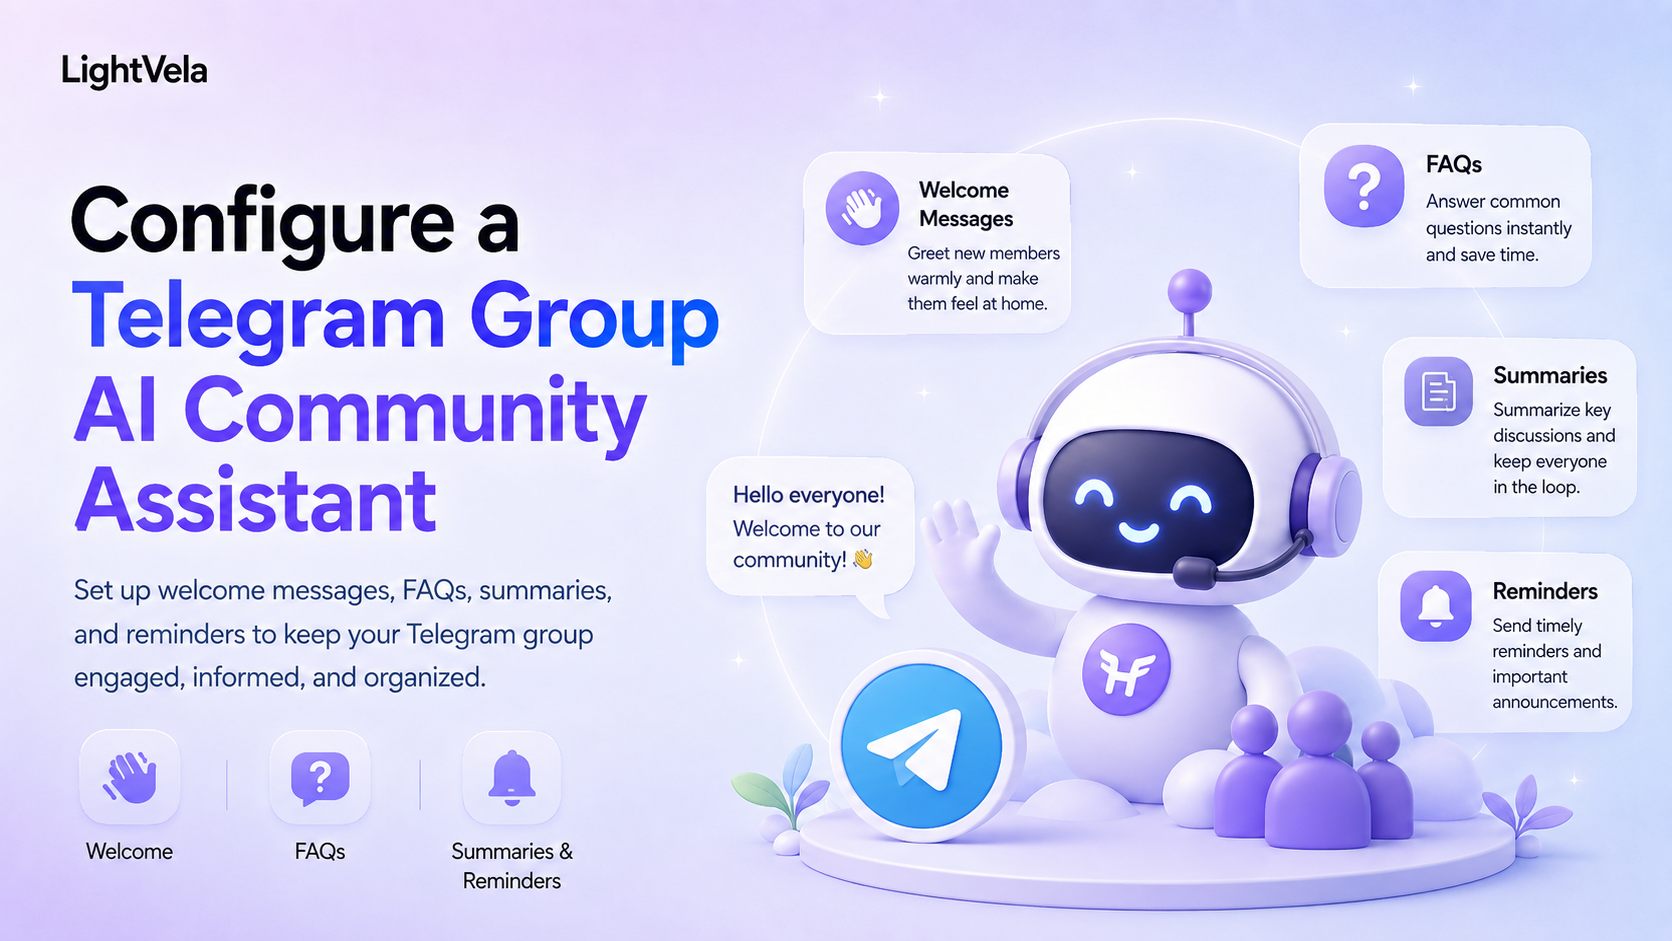
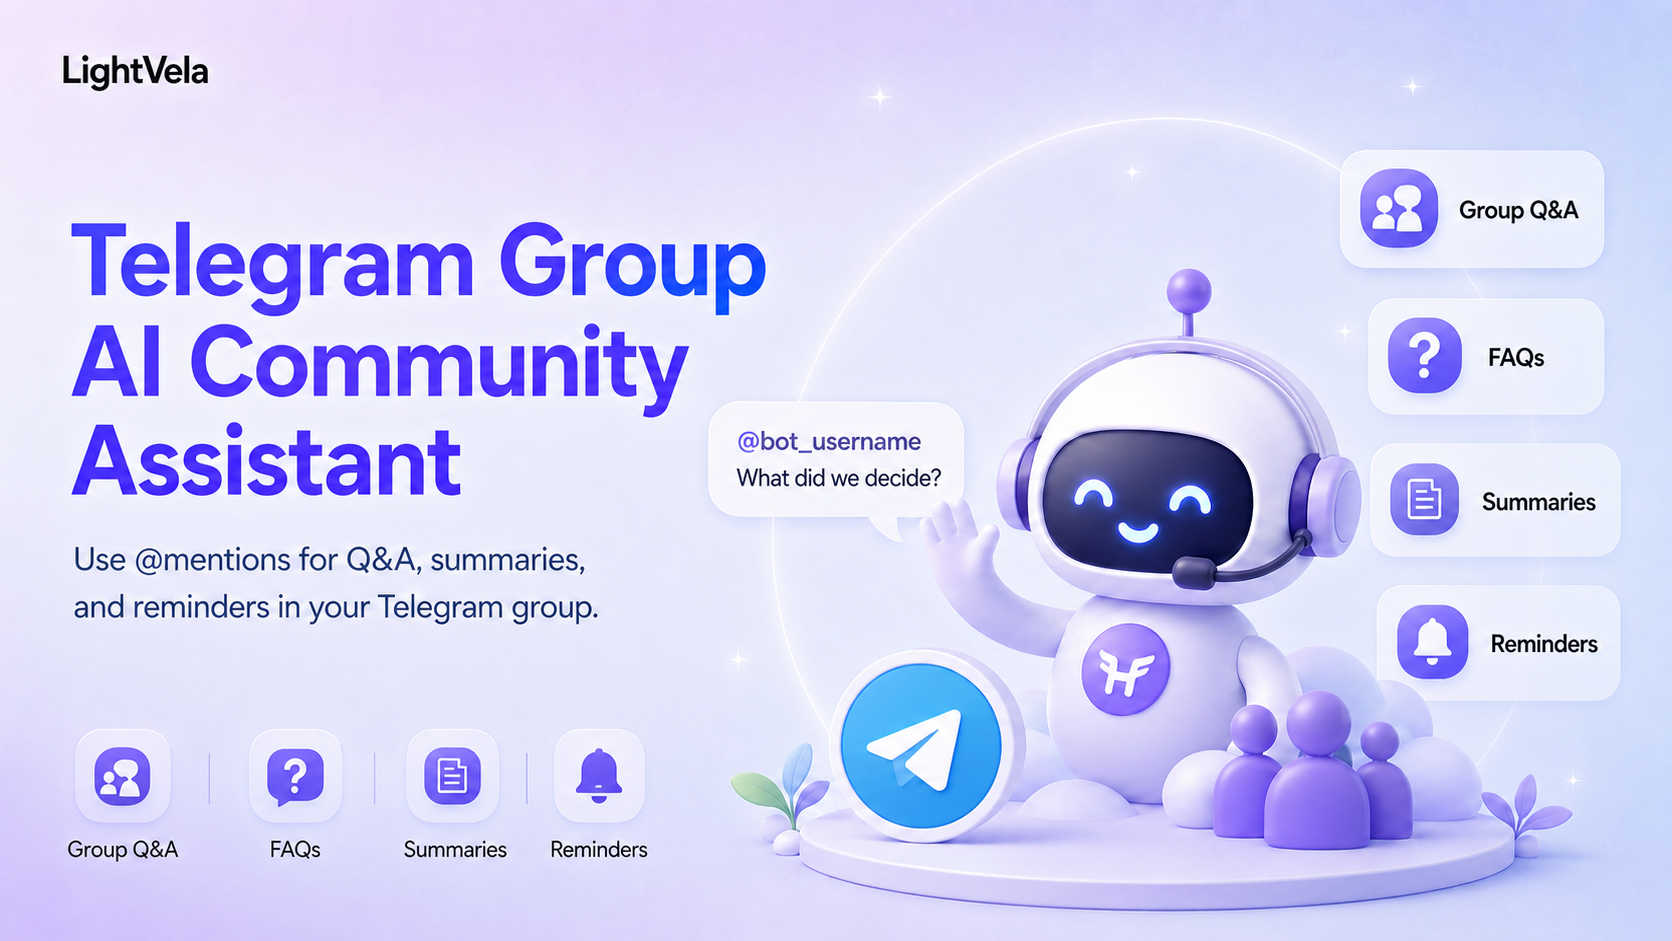
完善 Telegram 群组文档评审修订 / docs: refine Telegram group setup guidance

diff --git a/.agents/skills/product-skills/lv-docs/SKILL.md b/.agents/skills/product-skills/lv-docs/SKILL.md
@@ -168,8 +168,8 @@ region: both    # 双站同步上线
   - LightVela 采用云端托管模式，**不提供面向用户的文件系统操作**，不要写成可直接编辑 `MEMORY.md` 等文件。
   - 人格**确实有**「人设」能力（管理台 Agent 设置页 →「人设」，支持「随机抽取人设」与「答题测试人设」，选中后「注入人设」），它生成并注入 Soul；但它不是可编辑任意云端文件的通用编辑器，也不要描述成「可视化效果预览」。
   - Telegram 通道支持群消息。
-涉及群助手场景时必须写明接入前置条件：在 BotFather 中发送 `/mybots` 并选择机器人，进入「Bot Settings」→「Group Privacy」关闭隐私模式，将机器人加入群组后通过 `@机器人用户名` 发起对话。
-不要把自动入群欢迎、未提及机器人的被动回复、成员加入事件或其他未验证的群组行为写成已支持能力。
+  - 涉及群助手场景时必须写明接入前置条件：在 BotFather 中发送 `/mybots` 并选择机器人，进入「Bot Settings」→「Group Privacy」关闭隐私模式，将机器人加入群组后通过 `@机器人用户名` 发起对话。
+  - 不要把自动入群欢迎、未提及机器人的被动回复、成员加入事件或其他未验证的群组行为写成已支持能力。
 - 措辞要贴合文档原文：例如通道状态的准确表述是「显示为已接入」，不要改写成产品里不存在的说法。
 - 最终回复中必须说明这些能力的核实依据来源。
 

diff --git a/frontend/src/content/docs/id/configuration/channel-telegram.md b/frontend/src/content/docs/id/configuration/channel-telegram.md
@@ -79,7 +79,10 @@ Anda semestinya menerima balasan Hermes Agent dalam beberapa detik.
 
 <img src="../images/telegram-botfather-6-global-en.webp" alt="" width="360" />
 
-### 6. Aktifkan pesan grup di BotFather
+### 6. Opsional: Aktifkan pesan grup di BotFather
+
+Selesaikan langkah 6 dan 7 hanya jika Anda ingin menggunakan Bot di grup.
+Pesan langsung sudah dapat digunakan setelah langkah 5.
 
 1. Buka `@BotFather` di Telegram.
 2. Kirim `/mybots`.
@@ -88,7 +91,7 @@ Anda semestinya menerima balasan Hermes Agent dalam beberapa detik.
 5. Pilih "Group Privacy".
 6. Pilih "Turn off" atau "Disable privacy mode".
 
-### 7. Tambahkan dan uji Bot di grup
+### 7. Opsional: Tambahkan dan uji Bot di grup
 
 1. Buka grup Telegram yang ingin digunakan.
 2. Pilih "Add Members" atau tindakan pengelolaan grup yang setara.

diff --git a/frontend/src/content/docs/en/configuration/channel-telegram.md b/frontend/src/content/docs/en/configuration/channel-telegram.md
@@ -79,7 +79,10 @@ You should receive a Hermes Agent reply within a few seconds.
 
 <img src="../images/telegram-botfather-6-global-en.webp" alt="" width="360" />
 
-### 6. Enable group messages in BotFather
+### 6. Optional: Enable group messages in BotFather
+
+Only complete steps 6 and 7 if you want to use the bot in a group.
+Direct messages are already available after step 5.
 
 1. Open `@BotFather` in Telegram.
 2. Send `/mybots`.
@@ -88,7 +91,7 @@ You should receive a Hermes Agent reply within a few seconds.
 5. Select "Group Privacy".
 6. Choose "Turn off" or "Disable privacy mode".
 
-### 7. Add and test the Bot in a group
+### 7. Optional: Add and test the Bot in a group
 
 1. Open the Telegram group you want to use.
 2. Choose "Add Members" or the equivalent group-management action.
